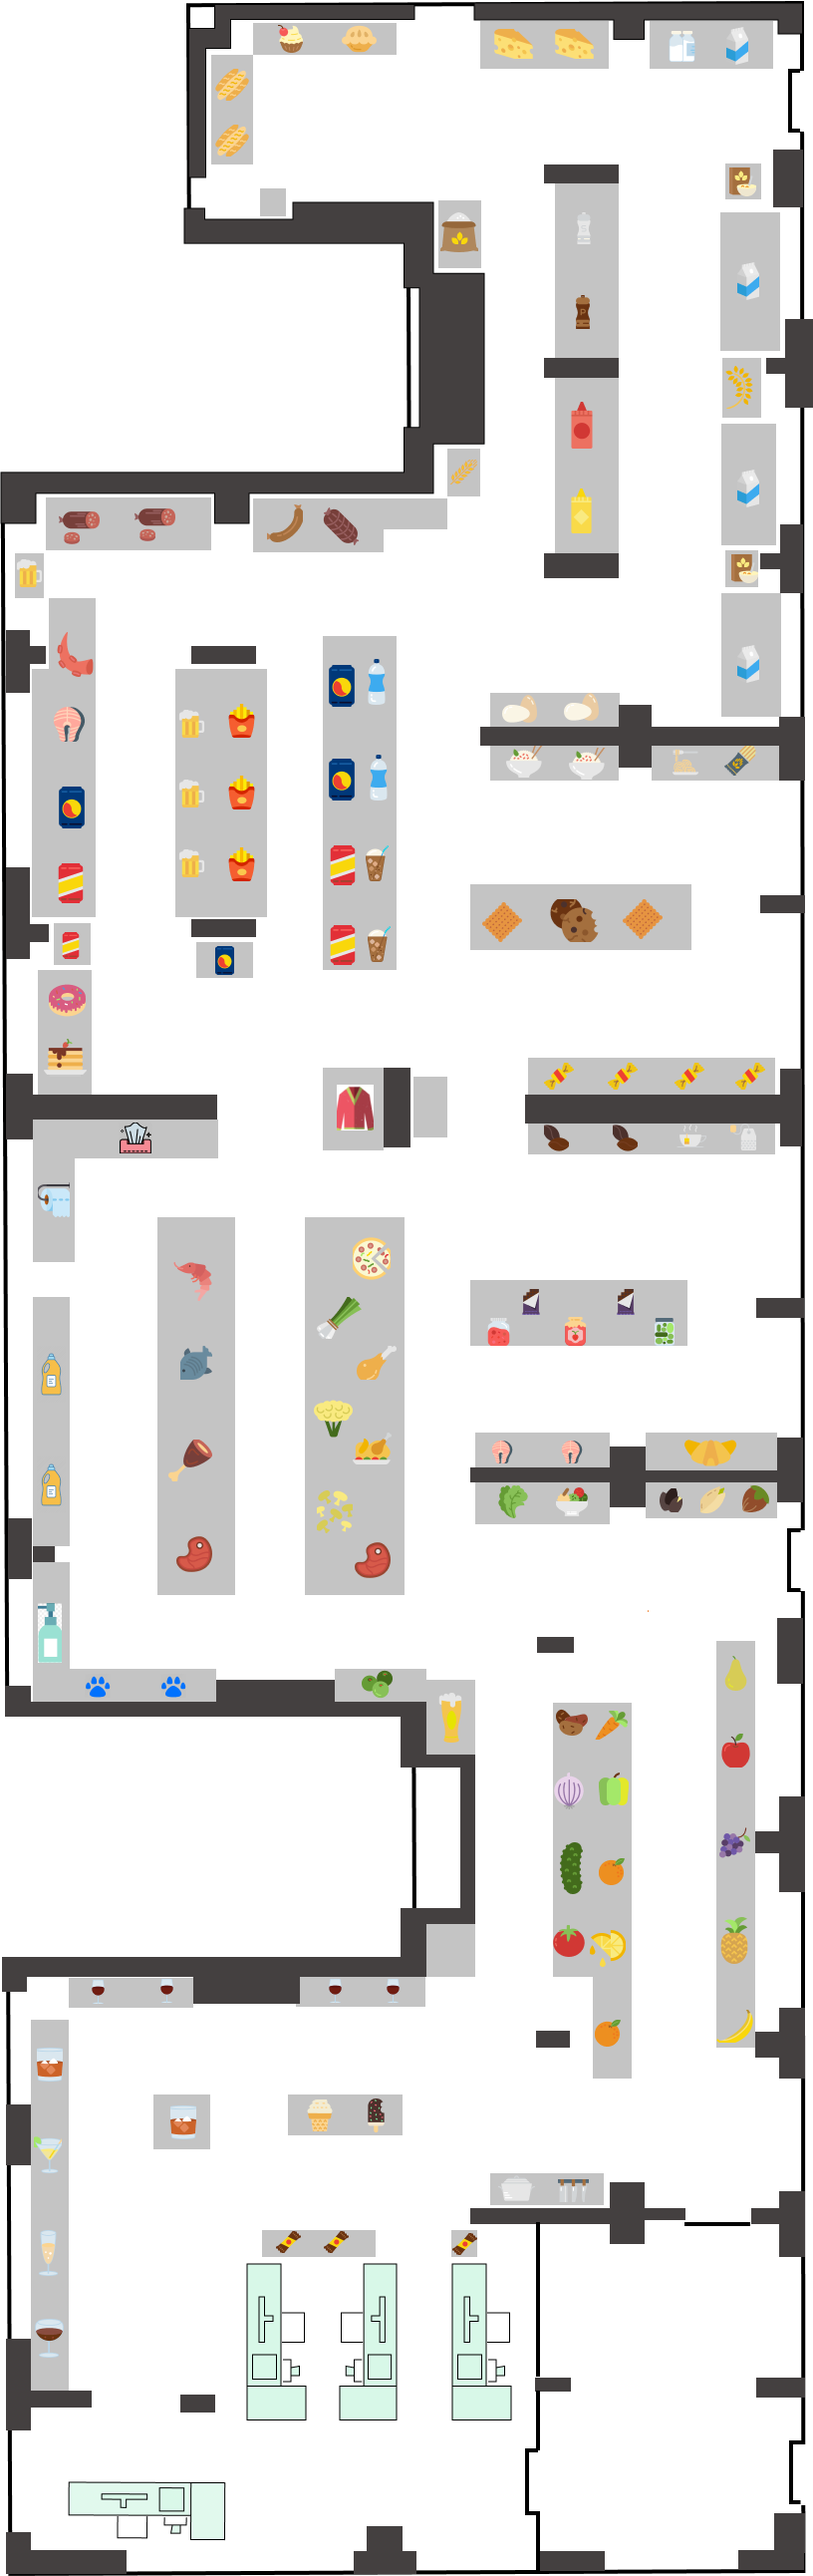
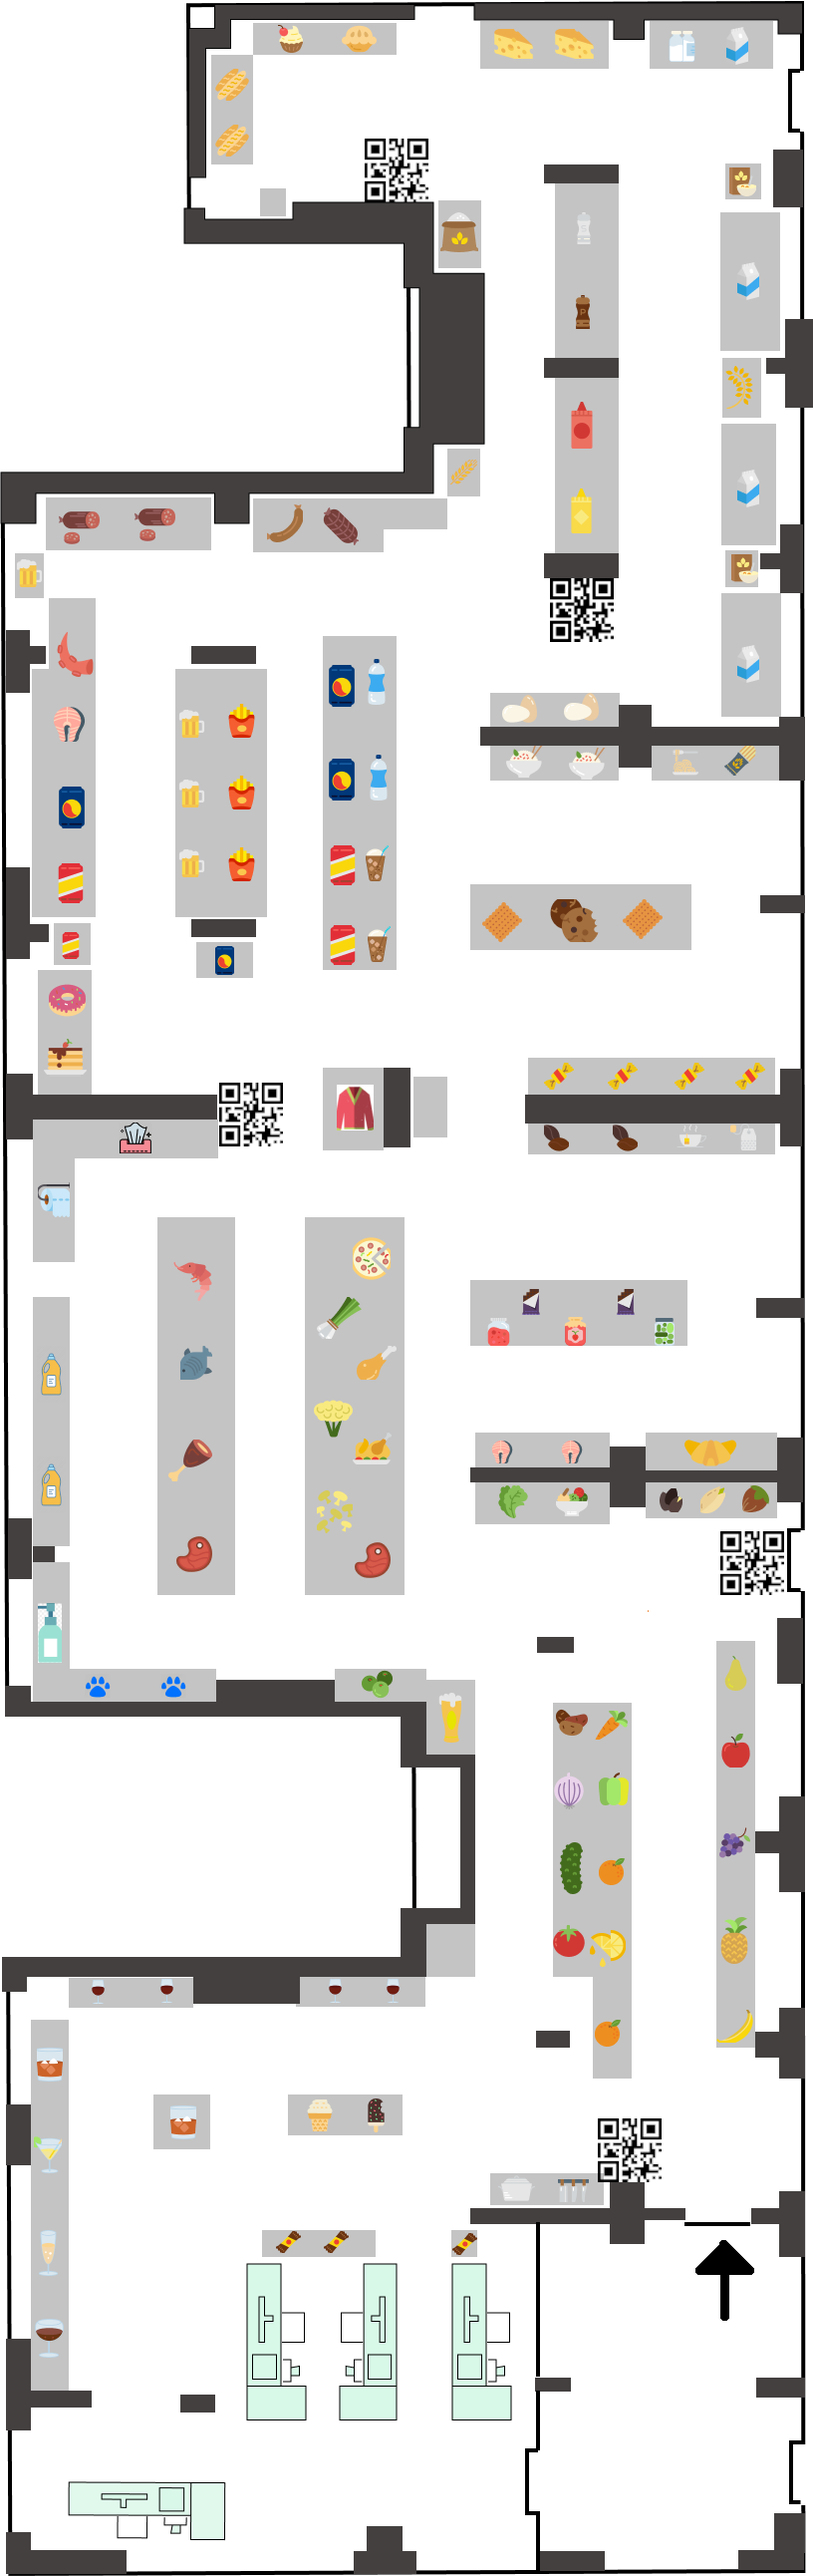
Update map

diff --git a/index.js b/index.js
@@ -47,11 +47,11 @@ const documents = [
 ];
 
 const qrPositions = {
-  1: {x: 730, y: 2500},
-  2: {x: 300, y: 900},
-  3: {x: 300, y: 900},
-  4: {x: 300, y: 900},
-  5: {x: 300, y: 900}
+  1: {x: 630, y: 2170},
+  2: {x: 670, y: 1570},
+  3: {x: 250, y: 1120},
+  4: {x: 600, y: 600},
+  5: {x: 400, y: 170}
 };
 
 const mapPos = documents.reduce(function(map, obj) {
